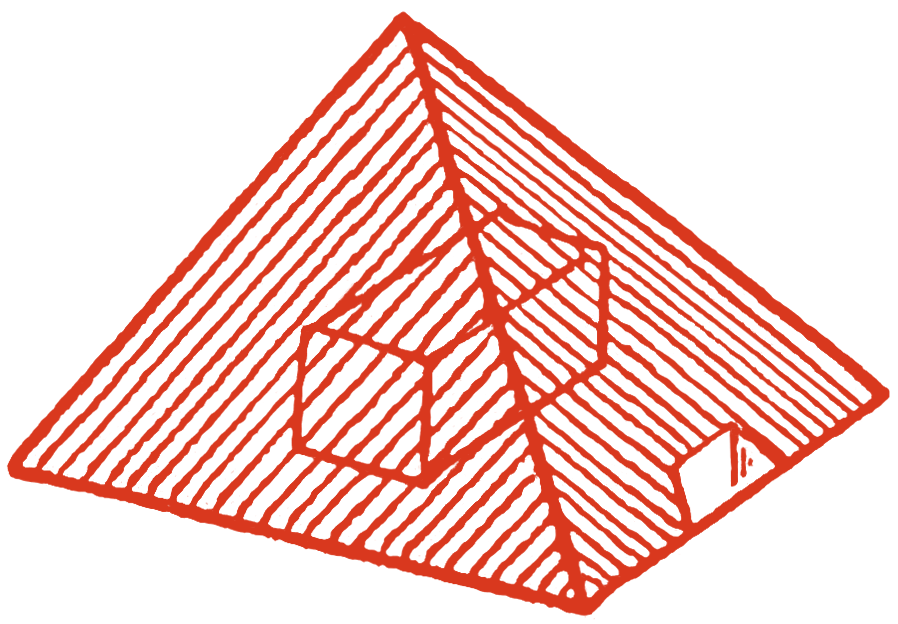
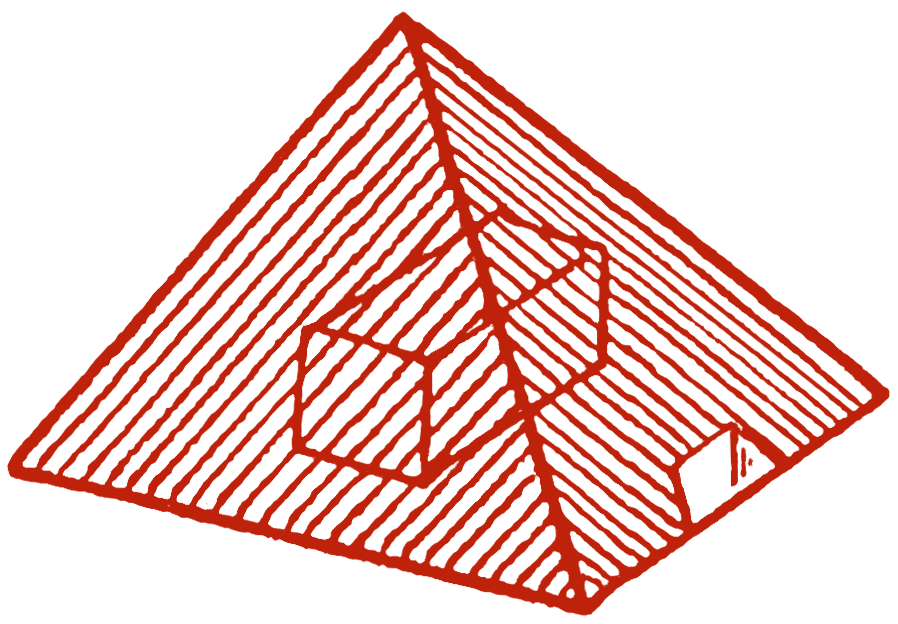
shin update

Changed region(s): [[0.0, 0.0, 0.9978, 1.0]]

diff --git a/click-track/words.js b/click-track/words.js
@@ -478,14 +478,14 @@ const words = {
     },
     'shin': {
         back: '#ff3300', // KING
-        text: '#D9381E', // QUEEN
-        fore: '#ed2800', // EMPEROR
+        text: '#bf220a', // QUEEN
+        fore: '#d92400', // EMPEROR
         backEnd: '#D9381E', // EMPRESS
         backFlecked: ['#AE0E36', '#00A550'],
 
         imgSrc: '300-color.png',
         //minDuration: 1000 * 1.5,
-        minDuration: 1000 * 2.5,
+        minDuration: 1000 * 1.8,
         parts: [
             {text:'shab', count:2, audio:'high'},
             {text:'nax', count:2, audio:'high'},
